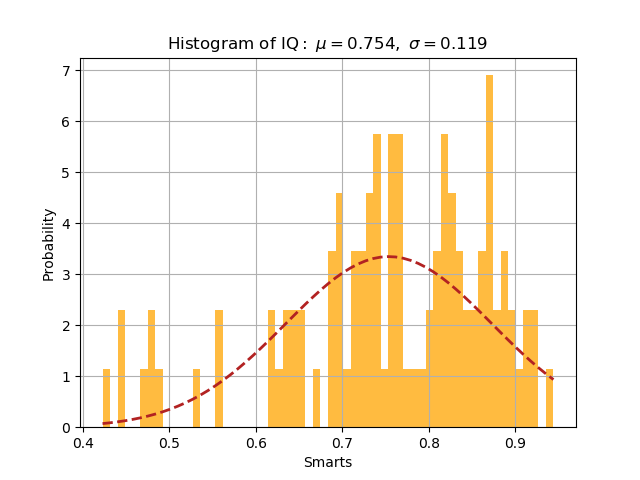
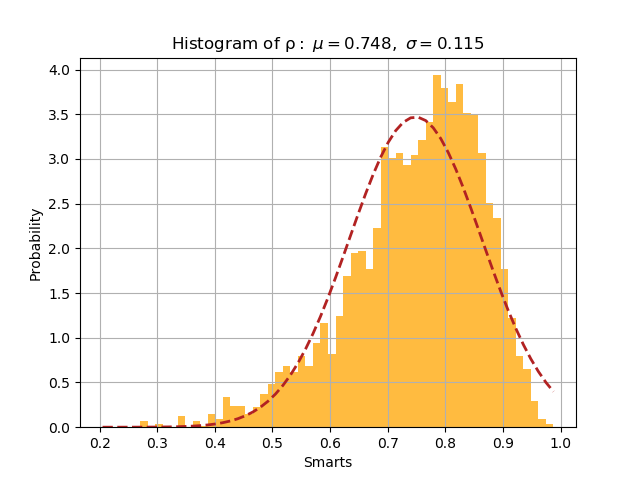
write stats

diff --git a/lib/coco_stuff_bb.py b/lib/coco_stuff_bb.py
@@ -11,6 +11,7 @@ import matplotlib.mlab as mlab
 import matplotlib.pyplot as plt
 import numpy as np
 import os
+import pickle
 import random
 import shutil
 import torchvision.transforms as transforms
@@ -311,15 +312,25 @@ def compute_noise_histogram(paths, config):
         P(B=0|Y=1) = (B[Y == 1] == 0).sum() / (Y == 1).sum()
 
     """
-    data_root = Path(paths["filtered_data_root"], config["name"])
-    train_loader, _, _ = get_coco_stuff_loaders(
-        data_root=data_root, batch_size=1)
+    if not os.path.exists(Path("cache")):
+        os.mkdir(Path("cache"))
 
     xs = []
-    for _, labels in tqdm(train_loader):
-        Y = labels[0].squeeze(0).numpy()
-        B = labels[1].squeeze(0).numpy()
-        xs.append((B[Y == 1] == 0).sum() / (Y == 1).sum())
+    if os.path.exists(Path("cache", config["name"])):
+        with open(Path("cache", config["name"]), 'rb') as fp:
+            xs = pickle.load(fp)
+    else:
+        data_root = Path(paths["filtered_data_root"], config["name"])
+        train_loader, _, _ = get_coco_stuff_loaders(
+            data_root=data_root, batch_size=1)
+
+        for _, labels in tqdm(train_loader):
+            Y = labels[0].squeeze(0).numpy()
+            B = labels[1].squeeze(0).numpy()
+            xs.append((B[Y == 1] == 0).sum() / (Y == 1).sum())
+       
+        with open(Path("cache", config["name"]), 'wb') as fp:
+            pickle.dump(xs, fp) 
 
     # best fit of data
     (mu, sigma) = norm.fit(xs)
@@ -335,7 +346,7 @@ def compute_noise_histogram(paths, config):
     # plot
     plt.xlabel('Smarts')
     plt.ylabel('Probability')
-    plt.title(
-        r'$\mathrm{Histogram\ of\ IQ:}\ \mu=%.3f,\ \sigma=%.3f$' % (mu, sigma))
+    plt.title(r'$\mathrm{Histogram\ of\ \rho:}\ \mu=%.3f,\ \sigma=%.3f$' %
+              (mu, sigma))
     plt.grid(True)
     plt.savefig("noise_histogram.png")
